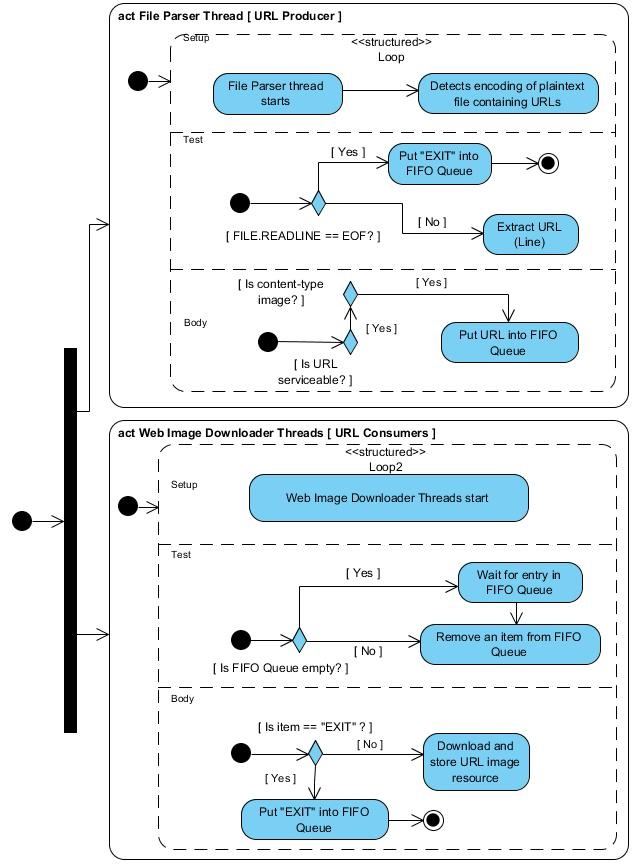
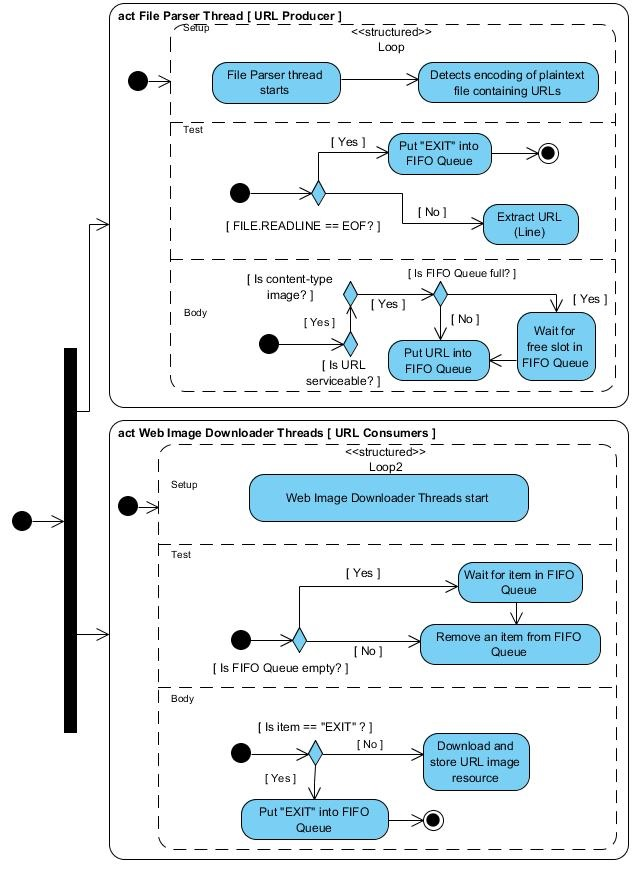
readme final

diff --git a/scripts/run_parser_downloader.py b/scripts/run_parser_downloader.py
@@ -1,4 +1,5 @@
 #!/usr/bin/python3
+
 from implementation.downloader import Downloader
 from implementation.parser import FileParser
 from settings import configure_application, get_cmdline_args
@@ -23,6 +24,6 @@ fp.wait_for_parser_thread ( )
 # waiting for downloader threads
 url_dl.wait_for_downloader_threads ( )
 
-print ( "----------------------------------------------------" )
-print ( "<<Thank you for using image downloader application>>" )
-print ( "----------------------------------------------------" )
+print ( "----------------------------------------------------------------------" )
+print ( "<<Thank you for using File Parser - Web Image Downloader application>>" )
+print ( "----------------------------------------------------------------------" )

diff --git a/settings.py b/settings.py
@@ -168,7 +168,7 @@ def get_cmdline_args ( test_args=[ ] ):
     required = parser.add_argument_group ( 'required arguments' )
     required.add_argument ( '-f', '--file', dest='infile', required=True, metavar="FILE_PATH",
                             type=argparse.FileType ( 'rb' ),
-                            help='Relative/Absolute path to the file that contains urls' )
+                            help='Relative/Absolute path to the URLs containing plaintext file' )
 
     if test_args:
         args = parser.parse_args ( test_args )

diff --git a/README.md b/README.md
@@ -1,38 +1,60 @@
 # File Parser - Web Image Downloader
 This application takes a plaintext file as an argument which contains image URLs, one per line. The application parses the
-plaintext file and downloads all serviceable image urls, and finally stores them on user-defined location on the local hard disk.
+plaintext file and downloads all serviceable image URLs, and finally stores them on user-defined location on the local hard disk.
  
 
 ## How to install the application software requirements
 <code>$ cd image_downloader</code><br>
-Choose one of the option:
+Choose only one of the below option:
 * If you want to install and use the required packages:<br>
 <code>$ python setup.py install</code>
 * Instead, if you don't want to install the required packages, however, still would like to just use them, then execute:<br>
 <code>$ python setup.py develop</code>
 
-This application has been developed and tested on Ubuntu 16.04 LTS OS using Python 3.5.2. For other OS platform, few instructions might need to be adapted.
+This application has been developed and tested on Ubuntu 16.04 LTS OS using Python 3.5.2. For other OS platforms, few instructions might need to be adapted.
 
 ## How to run the application
-For help:
-<code>python run_parser_downloader.py -h</code> 
 <code>$ cd image_downloader</code><br>
-<code>$ python run_parser_downloader.py -f <FILE_PATH></code>
+<code>$ export PYTHONPATH=$PWD</code>
 
-**todo wrto?**
-FILE_PATH is the path of the text document which contains urls of images (absolute or relative wrto image_downloader)
-Example:  <code>$ python run_parser_downloader.py -f /home/username/Desktop/image_urls.txt</code>
+###### Help on command-line options and arguments of the application:
+<code>$ python scripts/run_parser_downloader.py -h</code><br>
+```
+usage: run_parser_downloader.py [-h] -f FILE_PATH
+File Parser - Web Image Downloader
+optional arguments:
+  -h, --help            show this help message and exit
+required arguments:
+  -f FILE_PATH, --file FILE_PATH
+                        Relative/Absolute path to the URLs containing plaintext file
+```
 
+<code>$ python scripts/run_parser_downloader.py -f <FILE_PATH></code> 
 
-## How to run the unittests
-First run the application in a terminal and execute the following command in another terminal 
+**Note 1**: _FILE_PATH_ is the absolute or relative(wrto _image_downloader_) system path to a plaintext file.<br>
+Demo Run: <code>$ python run_parser_downloader.py -f ./image_urls.txt</code>
 
-$ cd image_downloader
-todo: should i import pythonpath? 
-$ python -m unittest
+**Note 2**: By default, the downloaded images and generated application logs get stored in **_./downloaded_images_** and **_./logs_**
+directory respectively. However, the application provides the users the flexibility to reconfigure the application as per their requisites. Please visit this
+[subsection](#custom-configuration-settings-for-advanced-users) for custom configuration settings.
+
+# How to execute unit tests for the application
+<code>$ cd image_downloader</code><br>
+<code>$ python -m unittest discover</code>
+
+# How to produce code coverage report of the application
+[*Only once:*] If _Coverage_ package is not installed on your system, please install this package [(version 4.5.1 with C extension)](http://coverage.readthedocs.io/en/coverage-4.5.1/index.html) in your local system:<br>
+<code>$ pip install -U coverage</code><br>
+
+<code>$ cd image_downloader</code><br>
+<code>$ sh eval_code_coverage.sh</code>
+
+**Note**: The produced code coverage report will get generated inside **_./documentation/coverage_html_report/_**. The
+above executed shell script automatically opens the home HTML page (**_./documentation/coverage_html_report/index.html_**)
+of application code coverage report.
 
 ## Custom Configuration Settings (For Advanced Users)
-You can adjust the control settings of this tool by modifying "cfg.py". By default every field is assigned some values.
+You can adjust the control settings of this tool by modifying "cfg.py". By default, every field is assigned some values.
 Each field is explained below in this section. <br><br>
 **Note 1**: Please be aware that _image_downloader_ is the home directory of this application. All relative addresses must be computed
 relative to this directory only.
@@ -44,19 +66,19 @@ relative to this directory only.
     * Default value: _'./downloaded_images'_
     
 * **URL_TIMEOUT**: Specifies waiting time (seconds) for a Request.  If you need to configure the application to wait for a response indefinitely, please assign None to it. You are strongly advised to configure a timeout value.
-    * Expected value: Positive integer / None
+    * Expected value: Non-negative integer / None
     * Default value: _2_    
     
-* **MAX_DOWNLOAD_REATTEMPTS**: Specifies maximum number of attempts to download an URL resource. Set it to None, if you prefer not to reattempt. However, If _URL_TIMEOUT_ is
+* **MAX_DOWNLOAD_REATTEMPTS**: Specifies the maximum number of reattempts to download an URL resource in case of first attempt download failure. Set it to None or 0, if you prefer not to reattempt. However, If _URL_TIMEOUT_ is
 already set to None, application ignores this configuration.
-    * Expected value: Positive integer / None
+    * Expected value: Non-negative integer / None
     * Default value: _2_    
 
 
 
-* **SYSTEM_PROXY**: Using a dict (e.g; proxies below), specifies mapping protocol or protocol and host to the URL of the proxy to be used on each Request. If your system is not behind proxy, set it to None.
+* **SYSTEM_PROXY**: Using a dictionary (e.g; proxies below), it specifies mapping protocol or protocol and host to the URL of the proxy to be used on each Request. If your system is not behind a proxy, set it to None.
 For detailed info, please visit [Request Proxies Details](http://docs.python-requests.org/en/master/user/advanced/#proxies).
-    ```python
+    ```
           proxies = {
               'http': 'http://10.10.1.10:3128',
               'https': 'http://10.10.1.10:1080',
@@ -73,17 +95,19 @@ For detailed info, please visit [Request Proxies Details](http://docs.python-req
  
 * **LOG_LEVEL**:  Specifies the log level of the application.
     * Expected value: Available options are __"NOTSET"__, __"DEBUG"__, __"INFO"__, __"WARNING"__, __"ERROR"__, and __"CRITICAL"__. All these options are case-insensitive.
-    * Default value: _"INFO"_
+    * Default value: __"INFO"__
 
 
-## Architecture of File Parser - Web Image Downloader
+## Architecture for File Parser - Web Image Downloader
 File Parser - Web Image Downloader uses the Producer / Consumer parallel-loop architecture. The design of File Parser - Web Image Downloader
 is simple and elegant. It consists of two independent components: *File Parser* and *Web Image Downloader*.
 
-File Parser does nothing but parse the plaintext file (taken as an argument) which contains image URLs, one per line and put the (*only*)
-serviceable URLs into a FIFO queue. Web Image Downloader have four threads that fetches the serviceable URLs from the FIFO queue and download the
-image resource. Once File Parser completes its operation, it sends a *EXIT* signal to the threads of Web Image Downloader. Once the threads
-of Web Image Downloader receives such signal, they complete their pending task and exit.
+File Parser does nothing but parse the plaintext file (taken as a command line argument) which contains image URLs, one per line and put the (*only*)
+serviceable URLs into a FIFO queue. Web Image Downloader has four threads that fetch the serviceable URLs from the FIFO queue and download the
+image resource. If a resource with the same name has already been downloaded priorly in the *IMAGE_SAVE_DIR* directory, then downloader threads
+store the image resource with a new name without any race condition (for renaming). Once File Parser completes its operation, it puts
+**"EXIT"** into the FIFO queue which is subsequently fetched by one of the threads of Web Image Downloader.
+Once a thread of Web Image Downloader fetches **"EXIT"**, it puts **"EXIT"** into the FIFO queue again and exit.
  
 The used pattern in this application uses some sort of asynchronous communications technique. Among the many advantages of this approach
 is that it deserializes the required operations and allows both tasks (file parsing and downloading) to proceed in parallel.
@@ -97,25 +121,22 @@ is that it deserializes the required operations and allows both tasks (file pars
 * In future, if the list of URLs contains only certain sites, then from network connection point of view, 
 it would be optimizable to only hit a single site with one request at a time (use a delay or send
 all URLs per site to a single thread/process). Using a single thread/process per site can help save
-the overhead of a three-way TCP handshake for HTTP persistent connections, however, this proposition is 
-advisable only if you are performing multiple requests to the same host. Also, learn more about HTTP/1.1 request
+the overhead of a three-way TCP handshake for HTTP persistent connections, however, this proposition is advisable only if you are performing multiple requests to the same host. Also, learn more about HTTP/1.1 request
 pipelining and how to keep it alive.
 * **A word of caution:** A very large thread pool size might quickly lead to diminishing application
 performance based upon the configuration of your local system. I have employed one thread to parse the
 file and four threads to perform multiple downloads at once. To make this application capable of
-handling a massive list of url downloads, it is advised to increase the number of download threads
+handling a massive list of URL downloads, it is advised to increase the number of download threads
 (up to certain limit, 
  otherwise context switching among threads might lead to disparaging application performance).
  However, use more number of threads than the number of CPUs in your local system. That way, 
  the application can wait for many slow hosts at the same time.
-* If you want to make this application capable of parallel execution on SMP and clusters, you can 
- consider incorporating [parallel python](https://www.parallelpython.com/) into this application.
+* If you want to make this application capable of parallel execution on SMP and clusters, you can consider incorporating [parallel python](https://www.parallelpython.com/) into this application.
  * It is possible to extend the capability of this application to crawl the web for the user-defined type
 of resources due to its modular architecture. If you implement this feature, please do make sure to
-honour the sites [robots.txt](http://www.robotstxt.org/robotstxt.html), otherwise the application
+honor the sites [robots.txt](http://www.robotstxt.org/robotstxt.html), otherwise, the application
 might likely get blocked pretty quickly by a single IP on a single site. [robotexclusionrulesparser](https://pypi.python.org/pypi/robotexclusionrulesparser) is 
 a viable option to analyze robot.txt. A straightforward approach to avoid such blocking could be to
-put a random sleep times in your crawler so that it does not multiple
-request in a very short timespan. You can also employ a priority queue to store/fetch the sites
-(used by threads) and based upon an intelligent algorithm, the application might issue request to
-site. All of these approaches are only to outmanoeuvre the tarpit defense  mechanism of a site.  
+put a random sleep time in your crawler so that it does not multiple
+requests in a very short timespan. You can also employ a priority queue to store/fetch the sites
+(used by threads) and based upon an intelligent algorithm, the application might issue requests to a site. All of these approaches are only to outmaneuver the tarpit defense mechanism of a site.  
